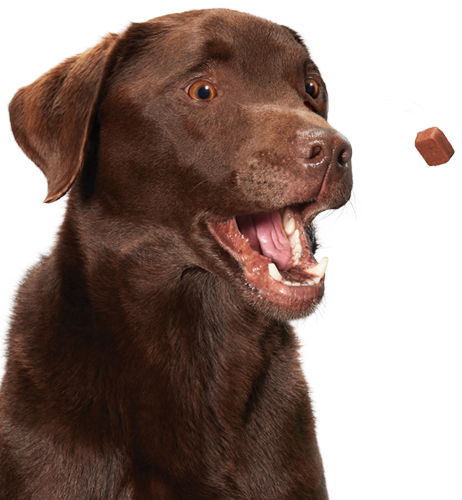
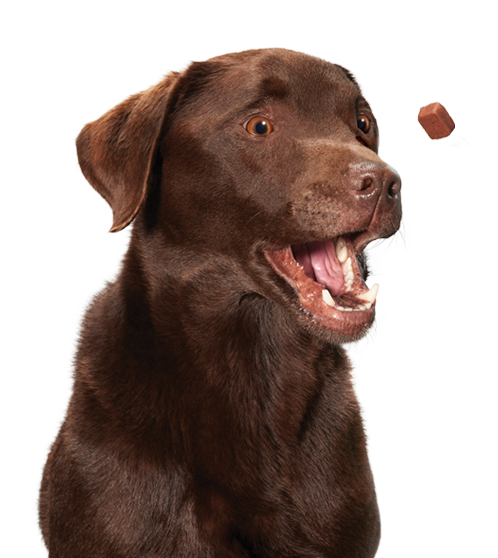
NexGard 15.04 18:11

diff --git a/landing.html b/landing.html
@@ -201,14 +201,14 @@
                             </div>
                         </div>
                     </div>
-                    <div class="col-6">
+                    <div class="col-5">
                         <div class="section__effectivity__scheme">
-                            <img src="img/parasite_dog_scheme.png" alt="Схема NexGard">
+                            <img class="img-fluid" src="img/parasite_dog_scheme.png" alt="Схема NexGard">
                         </div>
                     </div>
-                    <div class="col-3">
+                    <div class="col-4">
                         <div class="section__effectivity__dog">
-                            <img src="img/dog_with_pill_effectivity.png" alt="Собака NexGard">
+                            <img class="img-fluid" src="img/dog_with_pill_effectivity.png" alt="Собака NexGard">
                         </div>
                     </div>
                 </div>

diff --git a/css/style.css b/css/style.css
@@ -1,11 +1,5 @@
 body{
 	font-family: 'Lato', sans-serif;
-	min-width: 1140px;
-	width:100%;
-	padding: 0px 15px;
-	background: #fff;
-	height: 100%;
-	margin: 0 auto;
 }
 /*SECTION-HEADER*/
 .section__header{
